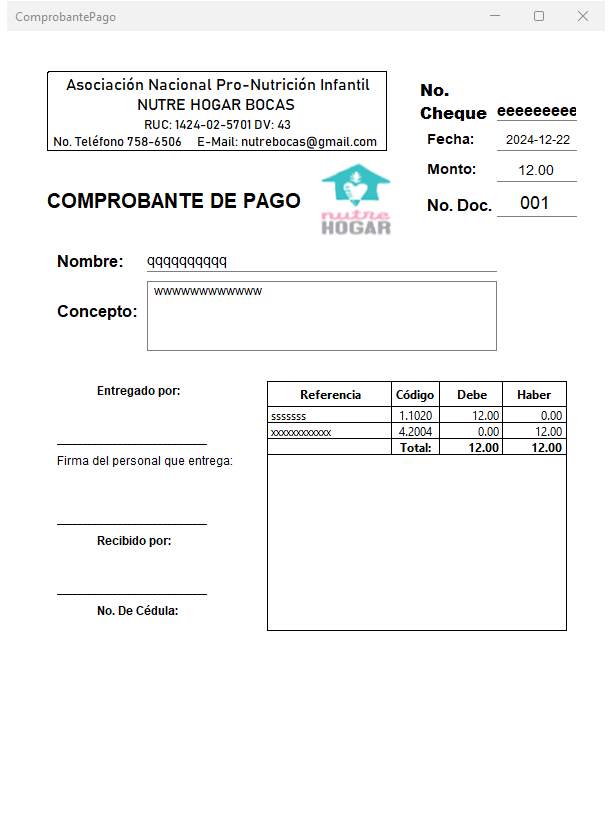
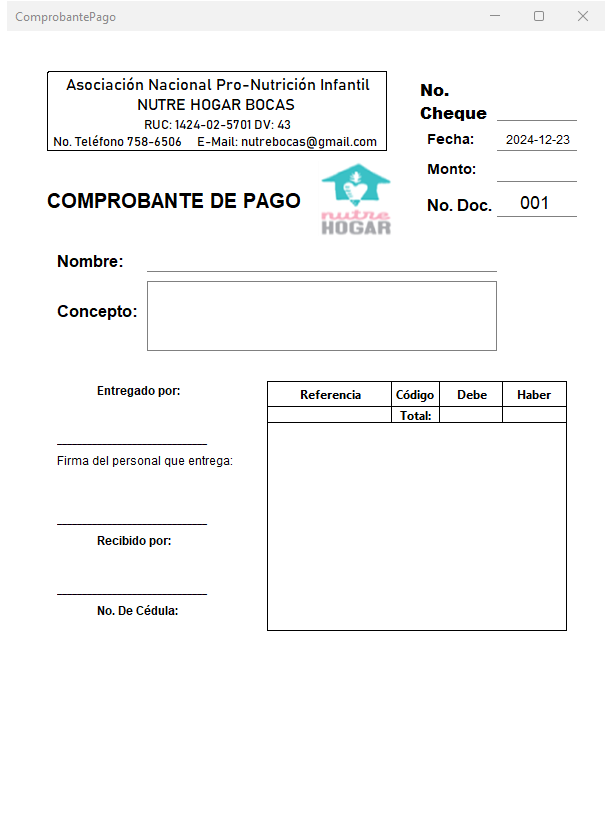
Implementando PDFService en Formulario

diff --git a/src/main/java/com/nutrehogar/sistemacontable/ui/view/Formulario.java b/src/main/java/com/nutrehogar/sistemacontable/ui/view/Formulario.java
@@ -1,5 +1,6 @@
 package com.nutrehogar.sistemacontable.ui.view;
 
+import com.nutrehogar.sistemacontable.application.service.PDFService;
 import com.nutrehogar.sistemacontable.domain.model.Asiento;
 import com.nutrehogar.sistemacontable.domain.model.Registro;
 import com.nutrehogar.sistemacontable.domain.repository.AsientoRepo;
@@ -36,9 +37,9 @@ public class Formulario extends javax.swing.JPanel {
         texfieNoDoc.setText(new DecimalFormat("000").format(noDoc));
         
         estilizarTabla();
-        estilizarBotones(
-                butAnadirRegistro, butEditarRegistro, 
-                butEliminarRegistro, butGuardarAsiento
+        estilizarBotones(butAnadirRegistro, butEditarRegistro, 
+                butEliminarRegistro, butGuardarAsiento,
+                butExportarFormulario, butExportarComprobante
         );     
     }
     
@@ -64,8 +65,10 @@ public class Formulario extends javax.swing.JPanel {
         panAcciones = new javax.swing.JPanel();
         butAnadirRegistro = new javax.swing.JButton();
         butEditarRegistro = new javax.swing.JButton();
-        butGuardarAsiento = new javax.swing.JButton();
         butEliminarRegistro = new javax.swing.JButton();
+        butGuardarAsiento = new javax.swing.JButton();
+        butExportarFormulario = new javax.swing.JButton();
+        butExportarComprobante = new javax.swing.JButton();
         labFecha = new javax.swing.JLabel();
         texfieNoCheque = new javax.swing.JTextField();
         labNoCheque = new javax.swing.JLabel();
@@ -159,16 +162,6 @@ public class Formulario extends javax.swing.JPanel {
             }
         });
 
-        butGuardarAsiento.setFont(new java.awt.Font("Segoe UI", 1, 18)); // NOI18N
-        butGuardarAsiento.setForeground(new java.awt.Color(255, 255, 255));
-        butGuardarAsiento.setIcon(new javax.swing.ImageIcon(getClass().getResource("/Icon/guardar.png"))); // NOI18N
-        butGuardarAsiento.setText("Guardar Asiento");
-        butGuardarAsiento.addMouseListener(new java.awt.event.MouseAdapter() {
-            public void mouseClicked(java.awt.event.MouseEvent evt) {
-                butGuardarAsientoMouseClicked(evt);
-            }
-        });
-
         butEliminarRegistro.setFont(new java.awt.Font("Segoe UI", 1, 18)); // NOI18N
         butEliminarRegistro.setForeground(new java.awt.Color(255, 255, 255));
         butEliminarRegistro.setIcon(new javax.swing.ImageIcon(getClass().getResource("/Icon/eliminar.png"))); // NOI18N
@@ -180,23 +173,53 @@ public class Formulario extends javax.swing.JPanel {
             }
         });
 
+        butGuardarAsiento.setFont(new java.awt.Font("Segoe UI", 1, 18)); // NOI18N
+        butGuardarAsiento.setForeground(new java.awt.Color(255, 255, 255));
+        butGuardarAsiento.setIcon(new javax.swing.ImageIcon(getClass().getResource("/Icon/guardar.png"))); // NOI18N
+        butGuardarAsiento.setText("Guardar Asiento");
+        butGuardarAsiento.addMouseListener(new java.awt.event.MouseAdapter() {
+            public void mouseClicked(java.awt.event.MouseEvent evt) {
+                butGuardarAsientoMouseClicked(evt);
+            }
+        });
+
+        butExportarFormulario.setFont(new java.awt.Font("Segoe UI", 1, 18)); // NOI18N
+        butExportarFormulario.setForeground(new java.awt.Color(255, 255, 255));
+        butExportarFormulario.setText("Exportar Formulario");
+        butExportarFormulario.addMouseListener(new java.awt.event.MouseAdapter() {
+            public void mouseClicked(java.awt.event.MouseEvent evt) {
+                butExportarFormularioMouseClicked(evt);
+            }
+        });
+
+        butExportarComprobante.setFont(new java.awt.Font("Segoe UI", 1, 18)); // NOI18N
+        butExportarComprobante.setForeground(new java.awt.Color(255, 255, 255));
+        butExportarComprobante.setText("Exportar Comprobante");
+        butExportarComprobante.addMouseListener(new java.awt.event.MouseAdapter() {
+            public void mouseClicked(java.awt.event.MouseEvent evt) {
+                butExportarComprobanteMouseClicked(evt);
+            }
+        });
+
         javax.swing.GroupLayout panAccionesLayout = new javax.swing.GroupLayout(panAcciones);
         panAcciones.setLayout(panAccionesLayout);
         panAccionesLayout.setHorizontalGroup(
             panAccionesLayout.createParallelGroup(javax.swing.GroupLayout.Alignment.LEADING)
             .addGroup(panAccionesLayout.createSequentialGroup()
-                .addContainerGap()
+                .addGap(12, 12, 12)
                 .addGroup(panAccionesLayout.createParallelGroup(javax.swing.GroupLayout.Alignment.LEADING)
                     .addComponent(butAnadirRegistro)
                     .addComponent(butEliminarRegistro)
+                    .addComponent(butEditarRegistro)
                     .addComponent(butGuardarAsiento)
-                    .addComponent(butEditarRegistro))
-                .addContainerGap(javax.swing.GroupLayout.DEFAULT_SIZE, Short.MAX_VALUE))
+                    .addComponent(butExportarFormulario)
+                    .addComponent(butExportarComprobante))
+                .addGap(12, 12, 12))
         );
         panAccionesLayout.setVerticalGroup(
             panAccionesLayout.createParallelGroup(javax.swing.GroupLayout.Alignment.LEADING)
             .addGroup(panAccionesLayout.createSequentialGroup()
-                .addGap(16, 16, 16)
+                .addGap(12, 12, 12)
                 .addComponent(butAnadirRegistro, javax.swing.GroupLayout.PREFERRED_SIZE, 45, javax.swing.GroupLayout.PREFERRED_SIZE)
                 .addPreferredGap(javax.swing.LayoutStyle.ComponentPlacement.UNRELATED)
                 .addComponent(butEditarRegistro, javax.swing.GroupLayout.PREFERRED_SIZE, 45, javax.swing.GroupLayout.PREFERRED_SIZE)
@@ -204,7 +227,11 @@ public class Formulario extends javax.swing.JPanel {
                 .addComponent(butEliminarRegistro, javax.swing.GroupLayout.PREFERRED_SIZE, 45, javax.swing.GroupLayout.PREFERRED_SIZE)
                 .addPreferredGap(javax.swing.LayoutStyle.ComponentPlacement.UNRELATED)
                 .addComponent(butGuardarAsiento, javax.swing.GroupLayout.PREFERRED_SIZE, 45, javax.swing.GroupLayout.PREFERRED_SIZE)
-                .addContainerGap())
+                .addPreferredGap(javax.swing.LayoutStyle.ComponentPlacement.UNRELATED)
+                .addComponent(butExportarFormulario, javax.swing.GroupLayout.PREFERRED_SIZE, 45, javax.swing.GroupLayout.PREFERRED_SIZE)
+                .addPreferredGap(javax.swing.LayoutStyle.ComponentPlacement.UNRELATED)
+                .addComponent(butExportarComprobante, javax.swing.GroupLayout.PREFERRED_SIZE, 45, javax.swing.GroupLayout.PREFERRED_SIZE)
+                .addGap(12, 12, 12))
         );
 
         labFecha.setFont(new java.awt.Font("Segoe UI", 1, 14)); // NOI18N
@@ -278,56 +305,54 @@ public class Formulario extends javax.swing.JPanel {
         );
         layout.setVerticalGroup(
             layout.createParallelGroup(javax.swing.GroupLayout.Alignment.LEADING)
-            .addGroup(layout.createSequentialGroup()
+            .addGroup(javax.swing.GroupLayout.Alignment.TRAILING, layout.createSequentialGroup()
                 .addGap(28, 28, 28)
                 .addComponent(labFormulario)
                 .addGap(30, 30, 30)
                 .addGroup(layout.createParallelGroup(javax.swing.GroupLayout.Alignment.LEADING)
                     .addGroup(layout.createSequentialGroup()
-                        .addPreferredGap(javax.swing.LayoutStyle.ComponentPlacement.RELATED, 80, Short.MAX_VALUE)
-                        .addComponent(panAcciones, javax.swing.GroupLayout.PREFERRED_SIZE, javax.swing.GroupLayout.DEFAULT_SIZE, javax.swing.GroupLayout.PREFERRED_SIZE)
-                        .addPreferredGap(javax.swing.LayoutStyle.ComponentPlacement.RELATED, 100, Short.MAX_VALUE))
-                    .addGroup(layout.createSequentialGroup()
-                        .addGroup(layout.createParallelGroup(javax.swing.GroupLayout.Alignment.LEADING)
-                            .addGroup(layout.createSequentialGroup()
-                                .addGap(13, 13, 13)
-                                .addComponent(texfieNoCheque, javax.swing.GroupLayout.PREFERRED_SIZE, javax.swing.GroupLayout.DEFAULT_SIZE, javax.swing.GroupLayout.PREFERRED_SIZE)
-                                .addGap(22, 22, 22)
-                                .addGroup(layout.createParallelGroup(javax.swing.GroupLayout.Alignment.BASELINE)
-                                    .addComponent(spiFecha, javax.swing.GroupLayout.PREFERRED_SIZE, javax.swing.GroupLayout.DEFAULT_SIZE, javax.swing.GroupLayout.PREFERRED_SIZE)
-                                    .addComponent(labFecha)))
-                            .addGroup(layout.createParallelGroup(javax.swing.GroupLayout.Alignment.TRAILING)
-                                .addGroup(layout.createSequentialGroup()
-                                    .addGroup(layout.createParallelGroup(javax.swing.GroupLayout.Alignment.BASELINE)
-                                        .addComponent(labMonto)
-                                        .addComponent(texfieMonto, javax.swing.GroupLayout.PREFERRED_SIZE, javax.swing.GroupLayout.DEFAULT_SIZE, javax.swing.GroupLayout.PREFERRED_SIZE))
-                                    .addGap(18, 18, 18)
-                                    .addGroup(layout.createParallelGroup(javax.swing.GroupLayout.Alignment.BASELINE)
-                                        .addComponent(labNoDoc)
-                                        .addComponent(texfieNoDoc, javax.swing.GroupLayout.PREFERRED_SIZE, javax.swing.GroupLayout.DEFAULT_SIZE, javax.swing.GroupLayout.PREFERRED_SIZE)))
-                                .addGroup(layout.createSequentialGroup()
-                                    .addGroup(layout.createParallelGroup(javax.swing.GroupLayout.Alignment.BASELINE)
-                                        .addComponent(texfieNombre, javax.swing.GroupLayout.PREFERRED_SIZE, javax.swing.GroupLayout.DEFAULT_SIZE, javax.swing.GroupLayout.PREFERRED_SIZE)
-                                        .addComponent(labNombre)
-                                        .addComponent(labNoCheque, javax.swing.GroupLayout.PREFERRED_SIZE, 41, javax.swing.GroupLayout.PREFERRED_SIZE))
-                                    .addPreferredGap(javax.swing.LayoutStyle.ComponentPlacement.RELATED)
-                                    .addGroup(layout.createParallelGroup(javax.swing.GroupLayout.Alignment.LEADING)
-                                        .addComponent(scrpanConcepto, javax.swing.GroupLayout.PREFERRED_SIZE, 109, javax.swing.GroupLayout.PREFERRED_SIZE)
-                                        .addGroup(layout.createSequentialGroup()
-                                            .addGap(37, 37, 37)
-                                            .addComponent(labConcepto))))))
-                        .addGap(20, 20, 20)
-                        .addComponent(scrpanRegistros, javax.swing.GroupLayout.PREFERRED_SIZE, 0, Short.MAX_VALUE)
-                        .addGap(20, 20, 20)
-                        .addGroup(layout.createParallelGroup(javax.swing.GroupLayout.Alignment.LEADING)
+                        .addGap(13, 13, 13)
+                        .addComponent(texfieNoCheque, javax.swing.GroupLayout.PREFERRED_SIZE, javax.swing.GroupLayout.DEFAULT_SIZE, javax.swing.GroupLayout.PREFERRED_SIZE)
+                        .addGap(22, 22, 22)
+                        .addGroup(layout.createParallelGroup(javax.swing.GroupLayout.Alignment.BASELINE)
+                            .addComponent(spiFecha, javax.swing.GroupLayout.PREFERRED_SIZE, javax.swing.GroupLayout.DEFAULT_SIZE, javax.swing.GroupLayout.PREFERRED_SIZE)
+                            .addComponent(labFecha)))
+                    .addGroup(layout.createParallelGroup(javax.swing.GroupLayout.Alignment.TRAILING)
+                        .addGroup(layout.createSequentialGroup()
                             .addGroup(layout.createParallelGroup(javax.swing.GroupLayout.Alignment.BASELINE)
-                                .addComponent(texfieDiferencia, javax.swing.GroupLayout.PREFERRED_SIZE, javax.swing.GroupLayout.DEFAULT_SIZE, javax.swing.GroupLayout.PREFERRED_SIZE)
-                                .addComponent(labDiferencia))
+                                .addComponent(labMonto)
+                                .addComponent(texfieMonto, javax.swing.GroupLayout.PREFERRED_SIZE, javax.swing.GroupLayout.DEFAULT_SIZE, javax.swing.GroupLayout.PREFERRED_SIZE))
+                            .addGap(18, 18, 18)
                             .addGroup(layout.createParallelGroup(javax.swing.GroupLayout.Alignment.BASELINE)
-                                .addComponent(texfieDebe, javax.swing.GroupLayout.PREFERRED_SIZE, javax.swing.GroupLayout.DEFAULT_SIZE, javax.swing.GroupLayout.PREFERRED_SIZE)
-                                .addComponent(texfieHaber, javax.swing.GroupLayout.PREFERRED_SIZE, javax.swing.GroupLayout.DEFAULT_SIZE, javax.swing.GroupLayout.PREFERRED_SIZE)
-                                .addComponent(labTotal)))))
+                                .addComponent(labNoDoc)
+                                .addComponent(texfieNoDoc, javax.swing.GroupLayout.PREFERRED_SIZE, javax.swing.GroupLayout.DEFAULT_SIZE, javax.swing.GroupLayout.PREFERRED_SIZE)))
+                        .addGroup(layout.createSequentialGroup()
+                            .addGroup(layout.createParallelGroup(javax.swing.GroupLayout.Alignment.BASELINE)
+                                .addComponent(texfieNombre, javax.swing.GroupLayout.PREFERRED_SIZE, javax.swing.GroupLayout.DEFAULT_SIZE, javax.swing.GroupLayout.PREFERRED_SIZE)
+                                .addComponent(labNombre)
+                                .addComponent(labNoCheque, javax.swing.GroupLayout.PREFERRED_SIZE, 41, javax.swing.GroupLayout.PREFERRED_SIZE))
+                            .addPreferredGap(javax.swing.LayoutStyle.ComponentPlacement.RELATED)
+                            .addGroup(layout.createParallelGroup(javax.swing.GroupLayout.Alignment.LEADING)
+                                .addComponent(scrpanConcepto, javax.swing.GroupLayout.PREFERRED_SIZE, 109, javax.swing.GroupLayout.PREFERRED_SIZE)
+                                .addGroup(layout.createSequentialGroup()
+                                    .addGap(37, 37, 37)
+                                    .addComponent(labConcepto))))))
+                .addGap(20, 20, 20)
+                .addComponent(scrpanRegistros, javax.swing.GroupLayout.PREFERRED_SIZE, 0, Short.MAX_VALUE)
+                .addGap(20, 20, 20)
+                .addGroup(layout.createParallelGroup(javax.swing.GroupLayout.Alignment.LEADING)
+                    .addGroup(layout.createParallelGroup(javax.swing.GroupLayout.Alignment.BASELINE)
+                        .addComponent(texfieDiferencia, javax.swing.GroupLayout.PREFERRED_SIZE, javax.swing.GroupLayout.DEFAULT_SIZE, javax.swing.GroupLayout.PREFERRED_SIZE)
+                        .addComponent(labDiferencia))
+                    .addGroup(layout.createParallelGroup(javax.swing.GroupLayout.Alignment.BASELINE)
+                        .addComponent(texfieDebe, javax.swing.GroupLayout.PREFERRED_SIZE, javax.swing.GroupLayout.DEFAULT_SIZE, javax.swing.GroupLayout.PREFERRED_SIZE)
+                        .addComponent(texfieHaber, javax.swing.GroupLayout.PREFERRED_SIZE, javax.swing.GroupLayout.DEFAULT_SIZE, javax.swing.GroupLayout.PREFERRED_SIZE)
+                        .addComponent(labTotal)))
                 .addGap(20, 20, 20))
+            .addGroup(javax.swing.GroupLayout.Alignment.TRAILING, layout.createSequentialGroup()
+                .addContainerGap(79, Short.MAX_VALUE)
+                .addComponent(panAcciones, javax.swing.GroupLayout.PREFERRED_SIZE, javax.swing.GroupLayout.DEFAULT_SIZE, javax.swing.GroupLayout.PREFERRED_SIZE)
+                .addContainerGap(81, Short.MAX_VALUE))
         );
     }// </editor-fold>//GEN-END:initComponents
     
@@ -403,6 +428,7 @@ public class Formulario extends javax.swing.JPanel {
         rv.setLocationRelativeTo(this);
         rv.setVisible(true);
     }//GEN-LAST:event_butAnadirRegistroMouseClicked
+    
     private void butEditarRegistroMouseClicked(java.awt.event.MouseEvent evt) {//GEN-FIRST:event_butEditarRegistroMouseClicked
         if (!listaSeleccionModelo.isSelectionEmpty()) {
             Integer filaRegistro = tabRegistros.getSelectedRow();
@@ -414,6 +440,7 @@ public class Formulario extends javax.swing.JPanel {
             JOptionPane.showMessageDialog(this, "Seleccione un registro en la tabla");
         }
     }//GEN-LAST:event_butEditarRegistroMouseClicked
+
     private void butEliminarRegistroMouseClicked(java.awt.event.MouseEvent evt) {//GEN-FIRST:event_butEliminarRegistroMouseClicked
         if (!listaSeleccionModelo.isSelectionEmpty()){
             Integer filaRegistro = tabRegistros.getSelectedRow();
@@ -423,6 +450,7 @@ public class Formulario extends javax.swing.JPanel {
             JOptionPane.showMessageDialog(this, "Seleccione un registro en la tabla");
         }
     }//GEN-LAST:event_butEliminarRegistroMouseClicked
+
     private void butGuardarAsientoMouseClicked(java.awt.event.MouseEvent evt) {//GEN-FIRST:event_butGuardarAsientoMouseClicked
         try {
             // Verificando si los campos estan vacíos
@@ -455,11 +483,41 @@ public class Formulario extends javax.swing.JPanel {
             JOptionPane.showMessageDialog(this, "Uno o varios campos estan vacíos");
         }
     }//GEN-LAST:event_butGuardarAsientoMouseClicked
+
+    private void butExportarFormularioMouseClicked(java.awt.event.MouseEvent evt) {//GEN-FIRST:event_butExportarFormularioMouseClicked
+        PDFService pdf = new PDFService();
+        pdf.noCheque = texfieNoCheque.getText();
+        pdf.fecha = spiFecha.getValue().toString();
+        pdf.monto = texfieMonto.getText();
+        pdf.noDoc = texfieNoDoc.getText();
+        pdf.nombre = texfieNombre.getText();
+        pdf.concepto = texareConcepto.getText();
+        pdf.debe = texfieDebe.getText();
+        pdf.haber = texfieHaber.getText();
+        pdf.registros = tabRegistrosModelo;
+        pdf.exportarFormulario();
+    }//GEN-LAST:event_butExportarFormularioMouseClicked
+
+    private void butExportarComprobanteMouseClicked(java.awt.event.MouseEvent evt) {//GEN-FIRST:event_butExportarComprobanteMouseClicked
+        PDFService pdf = new PDFService();
+        pdf.noCheque = texfieNoCheque.getText();
+        pdf.fecha = spiFecha.getValue().toString();
+        pdf.monto = texfieMonto.getText();
+        pdf.noDoc = texfieNoDoc.getText();
+        pdf.nombre = texfieNombre.getText();
+        pdf.concepto = texareConcepto.getText();
+        pdf.debe = texfieDebe.getText();
+        pdf.haber = texfieHaber.getText();
+        pdf.registros = tabRegistrosModelo;
+        pdf.exportarComprobante();
+    }//GEN-LAST:event_butExportarComprobanteMouseClicked
     
     // Variables declaration - do not modify//GEN-BEGIN:variables
     private javax.swing.JButton butAnadirRegistro;
     private javax.swing.JButton butEditarRegistro;
     private javax.swing.JButton butEliminarRegistro;
+    private javax.swing.JButton butExportarComprobante;
+    private javax.swing.JButton butExportarFormulario;
     private javax.swing.JButton butGuardarAsiento;
     private javax.swing.JLabel labConcepto;
     private javax.swing.JLabel labDiferencia;

diff --git a/src/main/java/com/nutrehogar/sistemacontable/application/service/PDFService.java b/src/main/java/com/nutrehogar/sistemacontable/application/service/PDFService.java
@@ -17,33 +17,30 @@ import javax.swing.*;
 import javax.swing.table.DefaultTableModel;
 
 public class PDFService {
-    public void exportarComprobantePago(
-            String noCheque,
-            String fecha,
-            String monto, 
-            String noDoc,
-            String nombre,
-            String concepto,
-            String debe,
-            String haber,
-            JTable tabRegistros) {
-        
+    public String noCheque;
+    public String fecha;
+    public String monto;
+    public String noDoc;
+    public String nombre;
+    public String concepto;
+    public String debe;
+    public String haber;
+    public DefaultTableModel registros;
+    
+    public void exportarComprobante() {
         ComprobantePago cp = new ComprobantePago();
-        
         cp.texfieNoCheque.setText(noCheque);
         cp.texfieFecha.setText(fecha);
         cp.texfieNoDoc.setText(noDoc);
         cp.texfieNombre.setText(nombre);
         cp.texareConcepto.setText(concepto);
         cp.texfieMonto.setText(monto);
-        
         DefaultTableModel cpRegistros = (DefaultTableModel) cp.tabRegistros.getModel();
-        DefaultTableModel fRegistros = (DefaultTableModel) tabRegistros.getModel();
         
-        for (Integer fila = 0; fila < fRegistros.getRowCount(); fila++) {
+        for (Integer fila = 0; fila < registros.getRowCount(); fila++) {
             Object[] columnas = new Object[cpRegistros.getColumnCount()];
-            for (Integer columna = 2; columna < fRegistros.getColumnCount(); columna++) {
-                Object valor = fRegistros.getValueAt(fila, columna);
+            for (Integer columna = 2; columna < registros.getColumnCount(); columna++) {
+                Object valor = registros.getValueAt(fila, columna);
                 columnas[columna - 2] = valor;
             }
             cpRegistros.addRow(columnas);
@@ -54,33 +51,20 @@ public class PDFService {
         cp.setVisible(true);
         exportarPDF(cp);
     }
-    public void exportarFormularioRegistro(
-            String noCheque,
-            String fecha,
-            String monto, 
-            String noDoc,
-            String nombre,
-            String concepto,
-            String debe,
-            String haber,
-            JTable tabRegistros) {
-        
+    public void exportarFormulario() {
         FormularioRegistro fr = new FormularioRegistro();
-        
         fr.texfieNoCheque.setText(noCheque);
         fr.texfieFecha.setText(fecha);
         fr.texfieNoDoc.setText(noDoc);
         fr.texfieNombre.setText(nombre);
         fr.texareConcepto.setText(concepto);
         fr.texfieMonto.setText(monto);
-        
         DefaultTableModel frRegistros = (DefaultTableModel) fr.tabRegistros.getModel();
-        DefaultTableModel fRegistros = (DefaultTableModel) tabRegistros.getModel();
         
-        for (Integer fila = 0; fila < fRegistros.getRowCount(); fila++) {
+        for (Integer fila = 0; fila < registros.getRowCount(); fila++) {
             Object[] columnas = new Object[frRegistros.getColumnCount()];
-            for (Integer columna = 0; columna < fRegistros.getColumnCount(); columna++) {
-                Object valor = fRegistros.getValueAt(fila, columna);
+            for (Integer columna = 0; columna < registros.getColumnCount(); columna++) {
+                Object valor = registros.getValueAt(fila, columna);
                 columnas[columna] = valor;
             }
             frRegistros.addRow(columnas);

diff --git a/src/main/java/com/nutrehogar/sistemacontable/ui/view/RegistroVentana.java b/src/main/java/com/nutrehogar/sistemacontable/ui/view/RegistroVentana.java
@@ -306,6 +306,7 @@ public class RegistroVentana extends javax.swing.JFrame {
             }
         }  
     }//GEN-LAST:event_butAnadirMouseClicked
+    
     private void butEditarMouseClicked(java.awt.event.MouseEvent evt) {//GEN-FIRST:event_butEditarMouseClicked
         if (butEditar.isEnabled()) {
             try {
